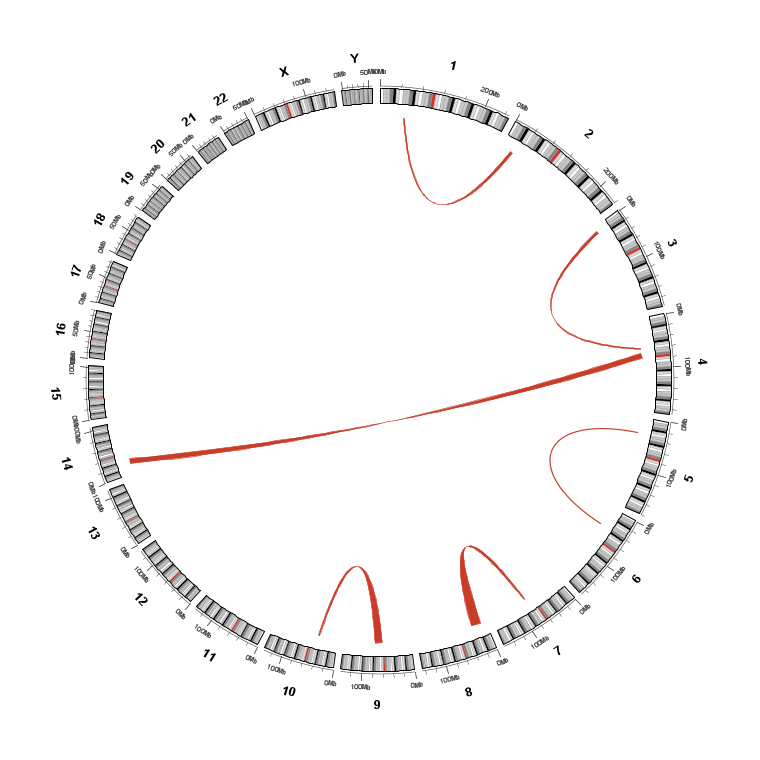
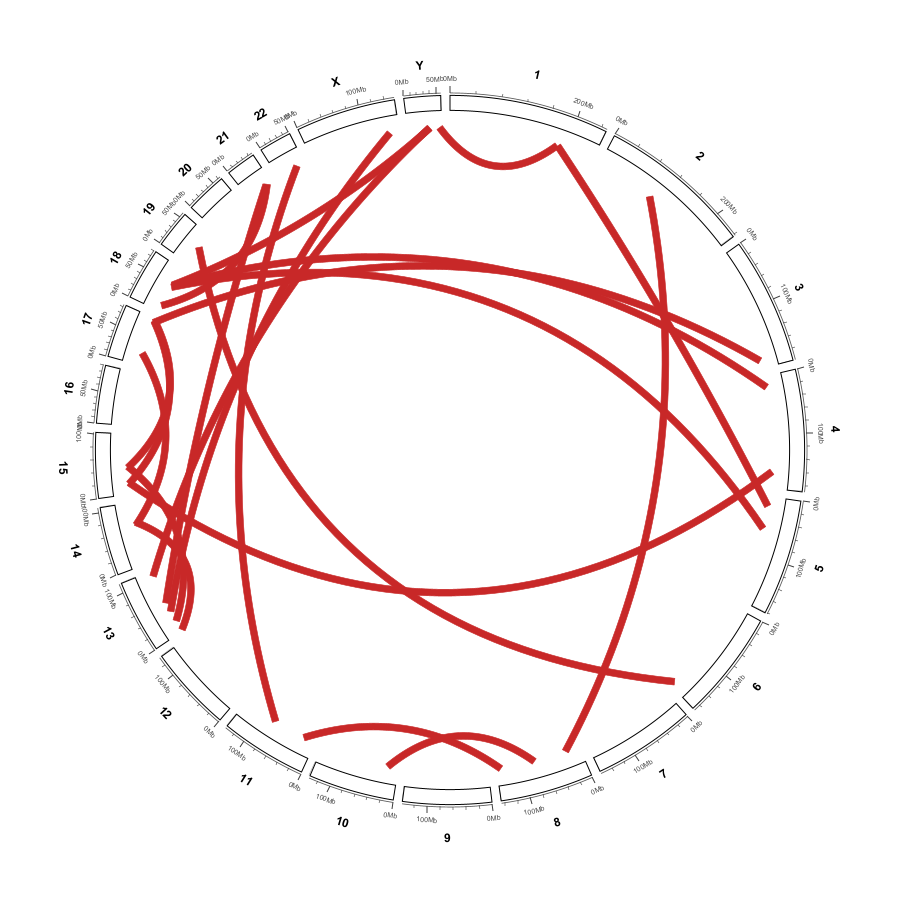
Circular links: fix mid-span pinch with constant pixel-width ribbons
Rewrite ribbonBand to draw a constant-pixel-width band swept along a quadratic centreline spine (offset +/- half-width perpendicular to the spine) instead of a fixed angular width, which collapsed to a point whenever the chord dived toward the centre.

Defaults changed to match the new behaviour and avoid the collapse:
  linkTwist=false (was true), linkBezierRadius=0.8 (was 0.25), linkBezierPurity=1.0 (was 0.75).
Made polar() package-private so the headless geometry probe can call it.

Docs (circular_links.rst, parameter_reference.rst, screenshots.rst, whats_new.rst) and the four link/ribbon screenshots were regenerated with the fixed renderer so they no longer show the old pinch.

diff --git a/src/main/java/org/broad/igv/ui/panel/CircularViewPanel.java b/src/main/java/org/broad/igv/ui/panel/CircularViewPanel.java
@@ -138,15 +138,23 @@ public class CircularViewPanel extends JPanel implements IGVEventObserver {
         public boolean showLinks = true;
         /** Filled band (Circos {@code ribbon=yes}) instead of a stroked curve. */
         public boolean linkRibbon = true;
-        /** Swap which end of the second interval the ribbon's edges connect to (Circos {@code twist}). */
-        public boolean linkTwist = true;
+        /** Swap which end of the second interval the ribbon's edges connect to (Circos {@code twist}).
+         *  When true the two edges are pulled toward the centreline so the band narrows to a waist
+         *  at mid-span; when false the band keeps a near-constant width (the default). */
+        public boolean linkTwist = false;
         /** Radial position of the link ends, as a fraction of the ideogram inner radius. */
         public double  linkRadius = 0.95;
         /** Radial position of the bezier control point, as a fraction of the link end radius.
-         *  Values &lt;= 0 draw a straight chord (Circos {@code bezier_radius=0}). */
-        public double  linkBezierRadius = 0.25;
-        /** 1 = control point purely radial (curves hug the circle), 0 = pulled to the Cartesian midpoint. */
-        public double  linkBezierPurity = 0.75;
+         *  This is what makes a chord dip inward: 1 = the curve stays right next to the ring,
+         *  0 = a straight chord. Values that are too small (e.g. 0.25) pull the ribbon so deep
+         *  toward the centre that the two edges meet and it collapses to a point with no width,
+         *  so the default is 0.8, which keeps a clear band across the whole span. */
+        public double  linkBezierRadius = 0.8;
+        /** 1 = control point purely radial (curves hug the circle and the band keeps its width),
+         *  0 = control point pulled to the Cartesian chord midpoint (which narrows a long ribbon's
+         *  middle). 1.0 is the default so diametric links stay full width; lower it for a softer,
+         *  more tapered look. */
+        public double  linkBezierPurity = 1.0;
         /** Extra control points that make links meet the ideogram perpendicularly; 0 disables. */
         public double  linkCrest = 0.5;
         /** Minimum angular width (degrees) of a ribbon end. Real BEDPE anchors are only a few kb,
@@ -3473,65 +3481,95 @@ public class CircularViewPanel extends JPanel implements IGVEventObserver {
     }
 
     /**
-     * Filled ribbon built the way circlize's {@code circos.link} builds it: TWO quadratic edges,
-     * each with its own control point on the bisector of its own pair of ends, closed by straight
-     * caps. The band therefore keeps a real width the whole way across — its width at each end is
-     * that end's arc — instead of pinching to a needle at mid-span.
+     * Filled ribbon built the way circlize's {@code circos.link} builds it, but with a CONSTANT
+     * PIXEL width along its whole length (a true band) instead of a constant *angular* width.
+     *
+     * <p>A constant angular width is what made every long link pinch to a needle at mid-span:
+     * the band dips toward the centre, and a fixed angle there spans fewer pixels, so the middle
+     * collapsed to a point. Here we take the ribbon's centreline — the bisector bezier between the
+     * two interval centres, the same control point the chords use — and offset it by +/– half the
+     * band width perpendicular to the curve. The band therefore keeps its width no matter how deep
+     * the chord dips. When the two ends have different widths the band tapers between them (a
+     * trapezoid) rather than hourglassing.</p>
      *
      * @param e1       {start,end} angular extent of the first interval (already min-width adjusted)
      * @param e2       same for the second interval
-     * @param twist    cross the edges (circlize {@code inverse = TRUE}): edge A runs
-     *                 start1 -> end2 and edge B end1 -> start2
+     * @param twist    gently narrows the band to a waist at mid-span (floored so it never closes)
+     * @param arrowStart/arrowEnd  flare the end into a triangular head that touches the ring
      */
     static Path2D.Double ribbonBand(double cx, double cy, double rEnd, double rBez,
                                     double purity, double[] e1, double[] e2, boolean twist,
                                     boolean arrowStart, boolean arrowEnd, double arrLen) {
         double a1s = e1[0], a1e = e1[1], a2s = e2[0], a2e = e2[1];
-        double edgeAFrom = a1s, edgeATo = a2s;
-        double edgeBFrom = a1e, edgeBTo = a2e;
-        // An arrow end pulls the two EDGES back by arrLen and then runs the closing edge along the
-        // ring arc: the band flares out into a head whose base is the whole arc at rEnd. That is
-        // circos.link's d1x/d2x + arc.points(theta22, theta21, rou2) construction.
-        double rFrom = arrowStart ? Math.max(4, rEnd - arrLen) : rEnd;
-        double rTo = arrowEnd ? Math.max(4, rEnd - arrLen) : rEnd;
+        double m1 = (a1s + a1e) / 2.0, m2 = (a2s + a2e) / 2.0;   // centre of each interval arc
 
-        Point2D A0 = polar(cx, cy, rFrom, edgeAFrom);
-        Point2D A1 = polar(cx, cy, rTo, edgeATo);
-        Point2D B0 = polar(cx, cy, rFrom, edgeBFrom);
-        Point2D B1 = polar(cx, cy, rTo, edgeBTo);
-        Point2D cA = linkControl(cx, cy, rEnd, rBez, edgeAFrom, edgeATo, purity);
-        Point2D cB = linkControl(cx, cy, rEnd, rBez, edgeBFrom, edgeBTo, purity);
-        if (twist) {
-            // "Twist" pulls both edges toward the centreline, so the ribbon narrows to a waist at
-            // mid-span and reopens. Swapping the edge pairing instead (a real 2D cross) would
-            // close the band to a POINT there, which is exactly the hairline look we just fixed.
-            final double k = 0.22;
-            double mx = (cA.getX() + cB.getX()) / 2.0;
-            double my = (cA.getY() + cB.getY()) / 2.0;
-            cA = new Point2D.Double(cA.getX() + (mx - cA.getX()) * k,
-                    cA.getY() + (my - cA.getY()) * k);
-            cB = new Point2D.Double(cB.getX() + (mx - cB.getX()) * k,
-                    cB.getY() + (my - cB.getY()) * k);
+        // An arrow end pulls the whole end of the spine back by arrLen so the head can flare out
+        // to the ring (circos.link's big.arrow: the band narrows into a tip touching rou2).
+        double rFrom = arrowStart ? Math.max(4, rEnd - arrLen) : rEnd;
+        double rTo   = arrowEnd   ? Math.max(4, rEnd - arrLen) : rEnd;
+
+        // Centreline: from the centre of interval 1 to the centre of interval 2, with the same
+        // radial bezier control the chords use.
+        Point2D S0 = polar(cx, cy, rFrom, m1);
+        Point2D S2 = polar(cx, cy, rTo, m2);
+        Point2D Cs = linkControl(cx, cy, rEnd, rBez, m1, m2, purity);
+
+        // Half widths (px) at each end, taken from the real arc length of the interval. The
+        // min-degree floor in ribbonEnd already guarantees a visible width for 1 bp anchors.
+        double hw0 = Math.max(0.75, arcWidthPx(e1, rEnd) / 2.0);
+        double hw2 = Math.max(0.75, arcWidthPx(e2, rEnd) / 2.0);
+
+        final int N = 48;
+        Point2D[] top = new Point2D[N + 1], bot = new Point2D[N + 1];
+        for (int i = 0; i <= N; i++) {
+            double t = i / (double) N;
+            Point2D p = quadAt(S0, Cs, S2, t);
+            Point2D d = quadDeriv(S0, Cs, S2, t);
+            double len = Math.hypot(d.getX(), d.getY());
+            if (len < 1e-9) { d = new Point2D.Double(1, 0); len = 1; }
+            double nx = -d.getY() / len, ny = d.getX() / len;          // unit normal to the spine
+            double hw = hw0 + (hw2 - hw0) * t;                         // trapezoid between ends
+            if (twist) hw *= Math.max(0.4, 1.0 - 0.6 * Math.sin(Math.PI * t));  // gentle waist
+            top[i] = new Point2D.Double(p.getX() + nx * hw, p.getY() + ny * hw);
+            bot[i] = new Point2D.Double(p.getX() - nx * hw, p.getY() - ny * hw);
         }
 
         Path2D.Double path = new Path2D.Double();
-        path.moveTo(A0.getX(), A0.getY());
-        path.quadTo(cA.getX(), cA.getY(), A1.getX(), A1.getY());
+        path.moveTo(top[0].getX(), top[0].getY());
+        for (int i = 1; i <= N; i++) path.lineTo(top[i].getX(), top[i].getY());
         if (arrowEnd) {
-            // circos.link "big.arrow": both edges stop at rEnd - arr.length and the polygon
-            // closes on ONE point at the middle of the arc, so the band narrows into a tip that
-            // touches the ring (a triangular head, base = band width).
-            Point2D tip = polar(cx, cy, rEnd, (edgeATo + edgeBTo) / 2.0);
+            // Flared head: the band narrows into a single tip that touches the ring.
+            Point2D tip = polar(cx, cy, rEnd, m2);
             path.lineTo(tip.getX(), tip.getY());
         }
-        path.lineTo(B1.getX(), B1.getY());
-        path.quadTo(cB.getX(), cB.getY(), B0.getX(), B0.getY());
+        for (int i = N; i >= 0; i--) path.lineTo(bot[i].getX(), bot[i].getY());
         if (arrowStart) {
-            Point2D tip = polar(cx, cy, rEnd, (edgeAFrom + edgeBFrom) / 2.0);
+            Point2D tip = polar(cx, cy, rEnd, m1);
             path.lineTo(tip.getX(), tip.getY());
         }
         path.closePath();
         return path;
+    }
+
+    /** Arc length (px) of an interval end [{@code start,end}] fraction-of-circle at radius r. */
+    static double arcWidthPx(double[] e, double r) {
+        return Math.abs(e[1] - e[0]) * 2.0 * Math.PI * r;
+    }
+
+    /** Point on a quadratic bezier (p0, c, p2) at t. */
+    static Point2D quadAt(Point2D p0, Point2D c, Point2D p2, double t) {
+        double u = 1 - t;
+        return new Point2D.Double(
+                u * u * p0.getX() + 2 * u * t * c.getX() + t * t * p2.getX(),
+                u * u * p0.getY() + 2 * u * t * c.getY() + t * t * p2.getY());
+    }
+
+    /** Tangent (derivative) of a quadratic bezier at t. */
+    static Point2D quadDeriv(Point2D p0, Point2D c, Point2D p2, double t) {
+        double u = 1 - t;
+        return new Point2D.Double(
+                2 * u * (c.getX() - p0.getX()) + 2 * t * (p2.getX() - c.getX()),
+                2 * u * (c.getY() - p0.getY()) + 2 * t * (p2.getY() - c.getY()));
     }
 
     /**
@@ -3637,7 +3675,7 @@ public class CircularViewPanel extends JPanel implements IGVEventObserver {
     //  Geometry + text
     // ------------------------------------------------------------------
 
-    private static Point2D polar(double cx, double cy, double r, double frac) {
+    static Point2D polar(double cx, double cy, double r, double frac) {
         double theta = frac * 2.0 * Math.PI;
         return new Point2D.Double(cx + r * Math.sin(theta), cy - r * Math.cos(theta));
     }

diff --git a/docs/circular_links.rst b/docs/circular_links.rst
@@ -37,13 +37,13 @@ Visibility and geometry
        stroked curve.  Even when off, the other ribbon parameters below still
        govern the chord geometry.
    * - ``Twist ribbons``
-     - on
+     - off
      - Swap which end of the second interval the two ribbon edges connect to
        (Circos ``twist``).  In myIGV twist is implemented as a **mild waist
-       narrowing** (factor ``k = 0.22`` at the midpoint), not a full pinch: the
-       band keeps a visible width along its entire length.  This is the default
-       and is the main visual difference from a naive centreline ribbon whose
-       width collapses to zero at ``t = 0.5``.
+       narrowing** that brings the band to ``0.4×`` of its full width at the
+       midpoint (``sin`` profile), not a full pinch.  It is **off by default**
+       so the ribbon keeps a constant pixel width along its whole length; turn
+       it on only for the classic twisted-ribbon look.
    * - ``Colour by chromosome``
      - off
      - Colour each link by its source chromosome instead of using one link
@@ -59,9 +59,9 @@ Visibility and geometry
    :alt: Dense blue filled ribbon links inside a whole-genome circular ring
    :width: 65%
 
-   ``Ribbon (filled bands)`` on: each link is a filled two-edge Bezier band.
-   ``Twist ribbons`` (default on) narrows the waist slightly but never closes
-   it.
+   ``Ribbon (filled bands)`` on: each link is a filled band with a constant
+   pixel width along its length.  ``Twist ribbons`` (default off) optionally
+   narrows the waist to ``0.4×`` at the midpoint without ever closing it.
 
 .. figure:: images/circular_links_straight.png
    :alt: Straight chord links across a circular ring
@@ -73,10 +73,16 @@ Visibility and geometry
 Ribbon body
 -----------
 
-The ribbon is a polygon bounded by two quadratic Bezier edges, following
-``circos.link`` in the circlize R package.  A whole-genome BEDPE anchor is often
-only a few kilobases, which is sub-pixel on the ring, so a minimum angular
-width is applied at each end.
+The ribbon is drawn as a **constant-pixel-width band** swept along a quadratic
+Bezier centreline spine.  The spine runs from the midpoint of the first
+interval, through a single control point on the angle bisector at
+``linkBezierRadius``, to the midpoint of the second interval; at every sample
+the band is offset by ``±`` half its width perpendicular to the spine.  This is
+what stops the band pinching to a point in the middle — a fixed *angular* width
+would do exactly that whenever the spine dives toward the centre.  A
+whole-genome BEDPE anchor is often only a few kilobases (sub-pixel on the
+ring), so a minimum angular width is still applied at each end to keep the
+anchor visible.
 
 .. list-table::
    :header-rows: 1
@@ -91,7 +97,7 @@ width is applied at each end.
        radius.  Range ``0.05 – 1.0``.  Lower it to keep links clear of data
        rings.
    * - ``Bezier radius (0-1)…``
-     - ``0.25``
+     - ``0.8``
      - Radial position of the Bezier control point (Circos
        ``bezier_radius``).  ``0`` draws a straight chord; ``1`` pushes the
        control point to the centre.  Range ``0 – 1``.
@@ -116,15 +122,18 @@ width is applied at each end.
      - ``5000``
      - Cap on links drawn per frame (Circos ``record_limit``).  Minimum ``1``.
 
-An internal ``linkBezierPurity`` of ``0.75`` blends the control point between
-the purely radial position and the Cartesian midpoint; it has no menu item.
+An internal ``linkBezierPurity`` of ``1.0`` holds the control point at the
+purely radial (angle-bisector) position, which keeps the band at full width;
+lower values tilt it toward the Cartesian midpoint.  It has no menu item.  The
+control point's radial position is set by the ``Bezier radius (0-1)…`` menu
+(default ``0.8``).
 
 .. figure:: images/ribbon_single.png
-   :alt: One ribbon link showing its two curved edges and constant waist width
+   :alt: One ribbon link showing a uniform pixel-width band along its length
    :width: 55%
 
-   A single ribbon.  Both edges remain separate at the midpoint — the band
-   never degenerates into a needle.
+   A single ribbon.  The band keeps a constant pixel width along its length —
+   it never pinches to a needle at the midpoint.
 
 .. figure:: images/circular_links_ribbon_mixed.png
    :alt: Mixed point-anchor and interval-anchor ribbons in one ring

diff --git a/docs/parameter_reference.rst b/docs/parameter_reference.rst
@@ -291,10 +291,12 @@ Links layer — right-click a Links row
      - on / off
      - Draw a filled ribbon (Circos ``ribbon=yes``) instead of a stroked curve.
    * - ``Twist ribbons``
-     - **on**
+     - off
      - on / off
-     - Narrow the ribbon at its waist (factor ``k = 0.22``) rather than
-       collapsing it to zero width.  Default is **on**.
+     - Narrow the ribbon at its waist to ``0.4×`` width at the midpoint
+       (``sin`` profile) rather than keeping a constant width.  Default is
+       **off**; with it off the ribbon keeps a constant pixel width along its
+       whole length.
    * - ``Colour by chromosome``
      - off
      - on / off
@@ -331,8 +333,8 @@ Links layer — right-click a Links row
      - ``0.05``–``1.0``
      - Radial position of link ends as a fraction of the ideogram inner radius.
        Lower it to keep links clear of the data rings.
-   * - ``Bezier radius (0-1)… (0.25)``
-     - ``0.25``
+   * - ``Bezier radius (0-1)… (0.8)``
+     - ``0.8``
      - ``0.0``–``1.0``
      - Radial position of the bezier control point; ``0`` gives a straight
        chord (Circos ``bezier_radius``).
@@ -366,7 +368,7 @@ Links layer — right-click a Links row
 
 .. tip::
 
-   ``linkBezierPurity`` (default ``0.75``), ``geneFlankBp`` (``2000``) and
+   ``linkBezierPurity`` (default ``1.0``), ``geneFlankBp`` (``2000``) and
    ``linkRibbonStrokeThickness`` (``0.6``) are internal constants with no
    dedicated menu item; they are listed here for completeness only.
 

diff --git a/docs/whats_new.rst b/docs/whats_new.rst
@@ -147,8 +147,10 @@ v1.0.2 tag.
        layer kind.
      - :doc:`circular_data_tracks`
    * - circlize-style ribbon links
-     - Filled two-edge Bezier ribbons with a guaranteed minimum end width,
-       twist, crest, transparency, and optional directional arrow heads.
+     - Filled constant-pixel-width ribbons swept along a quadratic centreline
+       (so they never pinch to a point), with a guaranteed minimum end width,
+       optional twist, crest, transparency, and optional directional arrow
+       heads.
      - :doc:`circular_links`
    * - Genomic heatmap ring
      - Equal-width cells (``posTransform.default``), 4-segment comb connectors

diff --git a/docs/screenshots.rst b/docs/screenshots.rst
@@ -194,8 +194,7 @@ Links, ribbons and arrows
      - The same links as straight chords (``Bezier radius`` at ``0``).
      - :doc:`circular_links`
    * - ``ribbon_single.png``
-     - A single ribbon showing its two boundary curves and constant waist
-       width.
+     - A single ribbon showing a uniform pixel-width band along its length.
      - :doc:`circular_links`
    * - ``circular_links_ribbon_mixed.png``
      - Mixed point and interval endpoints in one links layer.
